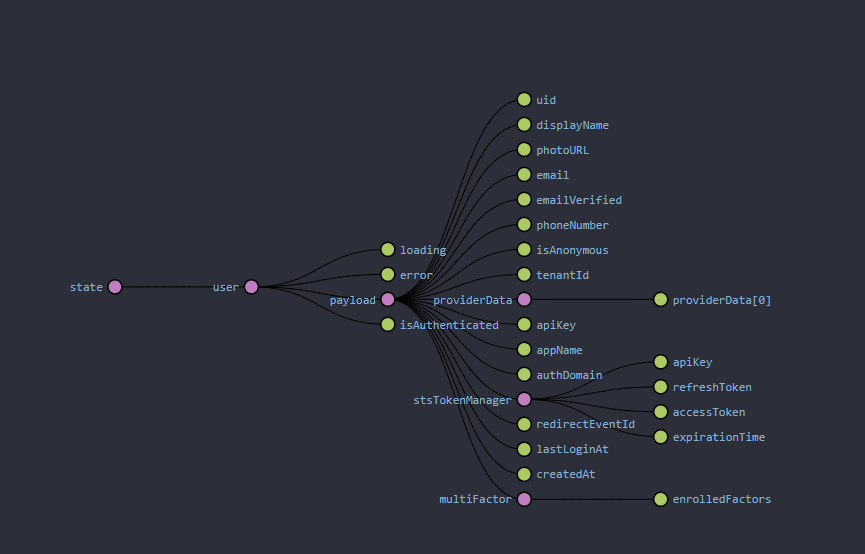
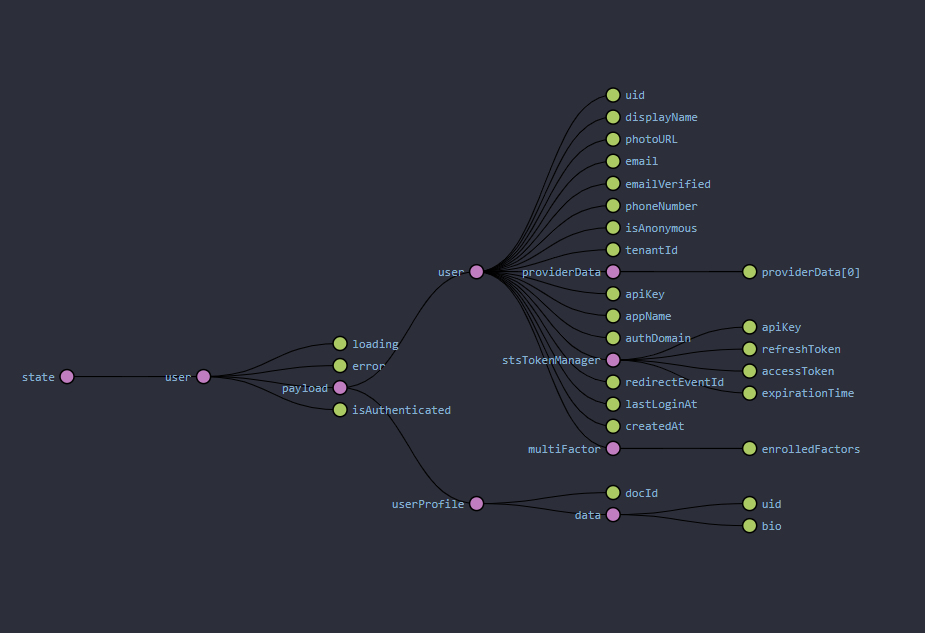
custom user profile

diff --git a/src/store/actions/user.js b/src/store/actions/user.js
@@ -128,12 +128,16 @@ export const registerUser = (email, password, notificationCallback) => (
         .get()
         .then((querySnapshot) => {
           querySnapshot.forEach((doc) => {
-            data.userProfile = doc.data();
+            // data.userProfile = { docId: doc.id, data: doc.data() };
+            dispatch(
+              registerSuccess({
+                user: data.user,
+                userProfile: { docId: doc.id, data: doc.data() },
+              })
+            );
+            notificationCallback("Account successfully created", "SUCCESS");
           });
         });
-
-      dispatch(registerSuccess(data));
-      notificationCallback("Account successfully created", "SUCCESS");
     })
     .catch((err) => {
       dispatch(registerFail(err.message));
@@ -157,7 +161,12 @@ export const signInUser = (email, password, notificationCallback) => (
         .get()
         .then((querySnapshot) => {
           querySnapshot.forEach((doc) => {
-            dispatch(authSuccess({ user: data.user, userProfile: doc.data() }));
+            dispatch(
+              authSuccess({
+                user: data.user,
+                userProfile: { docId: doc.id, data: doc.data() },
+              })
+            );
             notificationCallback(
               `Welcome back ${data.user.displayName}`,
               "SUCCESS"
@@ -194,9 +203,17 @@ export const autoLogin = () => (dispatch) => {
             querySnapshot.forEach((doc) => {
               localStorage.setItem(
                 "authUser",
-                JSON.stringify({ user: user, userProfile: doc.data() })
+                JSON.stringify({
+                  user: user,
+                  userProfile: { docId: doc.id, data: doc.data() },
+                })
               );
-              dispatch(authSuccess({ user: user, userProfile: doc.data() }));
+              dispatch(
+                authSuccess({
+                  user: user,
+                  userProfile: { docId: doc.id, data: doc.data() },
+                })
+              );
             });
           });
       } else {
@@ -241,12 +258,15 @@ export const updateProfile = (data, notificationCallback) => (dispatch) => {
                   localStorage.removeItem("authUser");
                   localStorage.setItem(
                     "authUser",
-                    JSON.stringify({ user: res.user, userProfile: doc.data() })
+                    JSON.stringify({
+                      user: res.user,
+                      userProfile: { docId: doc.id, data: doc.data() },
+                    })
                   );
                   dispatch(
                     updateProfileSuccess({
                       user: res.user,
-                      userProfile: doc.data(),
+                      userProfile: { docId: doc.id, data: doc.data() },
                     })
                   );
                   notificationCallback("Profile updated", "SUCCESS");
@@ -254,7 +274,6 @@ export const updateProfile = (data, notificationCallback) => (dispatch) => {
               });
           })
           .catch((err) => {
-            console.log(err);
             dispatch(updateProfileFail(err.message));
             notificationCallback(err.message, "ERROR");
           });
@@ -265,6 +284,16 @@ export const updateProfile = (data, notificationCallback) => (dispatch) => {
             photoURL: data.photoURL,
           })
           .then(() => {
+            try {
+              firestore.collection("userProfile").doc(data.docId).set(
+                {
+                  // CUSTOM PROFILE
+                  bio: data.bio,
+                },
+                { merge: true }
+              );
+            } catch {}
+
             firestore
               .collection("userProfile")
               .where("uid", "==", res.user.uid)
@@ -275,12 +304,15 @@ export const updateProfile = (data, notificationCallback) => (dispatch) => {
                   localStorage.removeItem("authUser");
                   localStorage.setItem(
                     "authUser",
-                    JSON.stringify({ user: res.user, userProfile: doc.data() })
+                    JSON.stringify({
+                      user: res.user,
+                      userProfile: { docId: doc.id, data: doc.data() },
+                    })
                   );
                   dispatch(
                     updateProfileSuccess({
                       user: res.user,
-                      userProfile: doc.data(),
+                      userProfile: { docId: doc.id, data: doc.data() },
                     })
                   );
                   notificationCallback("Profile updated", "SUCCESS");
@@ -319,12 +351,15 @@ export const updatePassword = (data, notificationCallback) => (dispatch) => {
                 localStorage.removeItem("authUser");
                 localStorage.setItem(
                   "authUser",
-                  JSON.stringify({ user: res.user, userProfile: doc.data() })
+                  JSON.stringify({
+                    user: res.user,
+                    userProfile: { docId: doc.id, data: doc.data() },
+                  })
                 );
                 dispatch(
-                  updateProfileSuccess({
+                  updatePasswordSuccess({
                     user: res.user,
-                    userProfile: doc.data(),
+                    userProfile: { docId: doc.id, data: doc.data() },
                   })
                 );
                 notificationCallback("Password updated", "SUCCESS");
@@ -377,12 +412,15 @@ export const updateProfilePicture = (photoURL, notificationCallback) => (
             localStorage.removeItem("authUser");
             localStorage.setItem(
               "authUser",
-              JSON.stringify({ user: user, userProfile: doc.data() })
+              JSON.stringify({
+                user: user,
+                userProfile: { docId: doc.id, data: doc.data() },
+              })
             );
             dispatch(
               updateProfileSuccess({
                 user: user,
-                userProfile: doc.data(),
+                userProfile: { docId: doc.id, data: doc.data() },
               })
             );
             notificationCallback("Profile picture updated", "SUCCESS");

diff --git a/src/components/MyProfile.js b/src/components/MyProfile.js
@@ -11,6 +11,7 @@ import { runNotifications } from "../helpers/Notification";
 import UploadProfilePicture from "./UploadProfilePicture";
 
 const { Title, Text } = Typography;
+const { TextArea } = Input;
 
 const MyProfile = (props) => {
   // ANTD FORM INPUT TRICKERY
@@ -22,6 +23,7 @@ const MyProfile = (props) => {
   const [currentEmail, setCurrentEmail] = useState("");
   const [avatar, setAvatar] = useState("");
   const [currentDisplayName, setCurrentDisplayName] = useState("");
+  const [bio, setBio] = useState("");
   const [passwordModalVisibility, setPasswordModalVisibility] = useState(false);
 
   const styles = {
@@ -48,11 +50,15 @@ const MyProfile = (props) => {
       setCurrentEmail(props.payload.user.providerData[0].email);
       setAvatar(props.payload.user.providerData[0].photoURL);
       setCurrentDisplayName(props.payload.user.providerData[0].displayName);
+      setBio(props.payload.userProfile.data.bio);
+
+      // console.log(props.payload.userProfile.bio);
 
       // Set up the default values for the inputs
       form.setFieldsValue({
         newEmail: currentEmail,
         displayName: currentDisplayName,
+        bio: bio,
       });
     } catch (error) {}
   }, [
@@ -62,6 +68,7 @@ const MyProfile = (props) => {
     history,
     props.isAuthenticated,
     props.payload,
+    bio,
   ]);
 
   const onFinish = (values) => {
@@ -72,6 +79,8 @@ const MyProfile = (props) => {
         oldEmail: props.payload.user.email,
         password: values.current_password,
         photoURL: values.photoURL,
+        bio: values.bio,
+        docId: props.payload.userProfile.docId,
       },
       runNotifications
     );
@@ -194,6 +203,7 @@ const MyProfile = (props) => {
             <Title level={4}>Display name</Title>
             <Title level={4}>E-mail</Title>
             <Title level={4}>Current password</Title>
+            <Title level={4}>Bio</Title>
           </Col>
 
           <Col style={{ marginLeft: "10px" }} md={8}>
@@ -245,13 +255,21 @@ const MyProfile = (props) => {
                 />
               </Form.Item>
 
+              <Form.Item
+                name="bio"
+                rules={[
+                  {
+                    required: false,
+                    message: "Please input your bio!",
+                  },
+                ]}
+              >
+                <TextArea autoSize={{ minRows: 2, maxRows: 2 }} />
+              </Form.Item>
+
               <Row align="middle">
                 <Col span={12}>
-                  <Button
-                    // style={{ width: "98%" }}
-                    type="primary"
-                    htmlType="submit"
-                  >
+                  <Button type="primary" htmlType="submit">
                     Update profile
                   </Button>
                 </Col>

diff --git a/src/components/Home.js b/src/components/Home.js
@@ -1,7 +1,6 @@
 import React from "react";
 
 import { connect } from "react-redux";
-import { firestore } from "../firebase";
 
 const Home = (props) => {
   return (

diff --git a/README.md b/README.md
@@ -6,6 +6,7 @@ The goal of this project is to be just that, a solid modern project template tha
 
 - [Firebase Authentication](https://firebase.google.com/docs/auth)
 - [Firebase Storage](https://firebase.google.com/docs/storage)
+- [Firebase Firestore](https://firebase.google.com/docs/firestore)
 - [Ant Design](https://ant.design)
 - Redux
 - Dockerfile
@@ -59,8 +60,6 @@ service firebase.storage {
 ```
 
 # Documentation
-
-## > **React**
 
 ## Introduction
 
@@ -116,6 +115,24 @@ When the user is logged in the store looks the following:
   - loading - is a boolean that can used, for example, in the conditional rendering of elements, this is used in [Login](./react/src/components/Login.js) and [My Profile](./react/src/components/MyProfile/index.js).
   - error - is a boolen, that can be used, for example, to set a given element to show that it errored out, such as an icon.
   - email - note that email is moved inside profile once the user has logged in.
+
+## Custom user profile
+
+By default when a user is registered a document is created with his uid.
+You can add as many custom attributes as you wish.
+user.js
+
+```jsx
+try {
+  firestore.collection("userProfile").doc(data.docId).set(
+    {
+      // CUSTOM PROFILE
+      bio: data.bio,
+    },
+    { merge: true }
+  );
+} catch {}
+```
 
 ## My Profile
 
